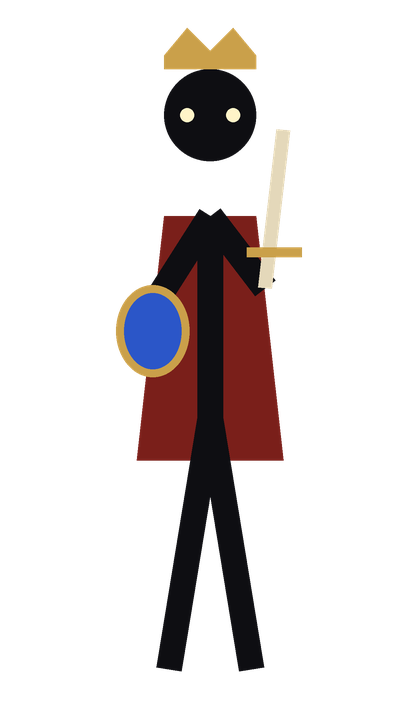
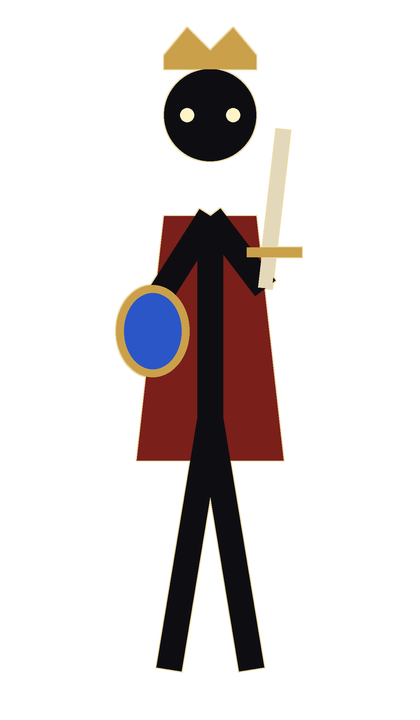
fix(ui-art): add light rim to stick characters so silhouettes read on dark plates
On-device, char_king was invisible on the dark Splash (black silhouette on dark-blue). Add a dilated
light-gold rim behind each character sprite (build_layers.py) so the silhouette separates from any dark
background (Splash/Defeat/etc.). Presentation-only (§12).

diff --git a/ui_pipeline/build_layers.py b/ui_pipeline/build_layers.py
@@ -151,6 +151,10 @@ def stick(name, accent, weapon=None, crown=False, hat=False, hood=False, cape=No
     if shield:
         sx=cx-int(head_r*1.25); sy=shoulder+int(h*0.16)
         d.ellipse([sx-int(head_r*0.8),sy-int(head_r*1.0),sx+int(head_r*0.8),sy+int(head_r*1.0)],fill=accent,outline=GOLD,width=int(8*SS))
+    # light rim so the black silhouette reads on dark backgrounds (Splash/Defeat/etc.)
+    a=im.split()[3]; rim=a.filter(ImageFilter.MaxFilter(2*SS+1))
+    rimimg=Image.new("RGBA",im.size,(0,0,0,0)); rimimg.paste((232,212,150,205),mask=rim)
+    im=Image.alpha_composite(rimimg,im)
     im=im.resize((W,H),Image.LANCZOS)
     im.save(os.path.join(OUT,"char_"+name+".png"))
 
